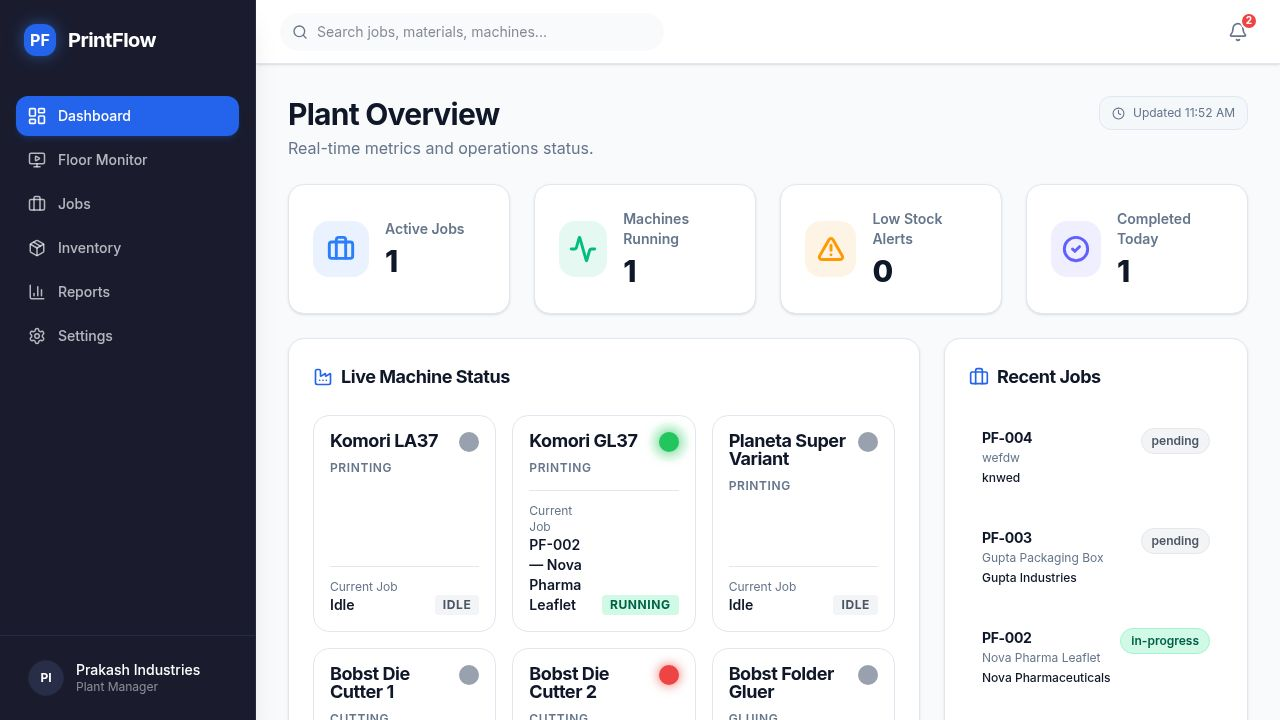
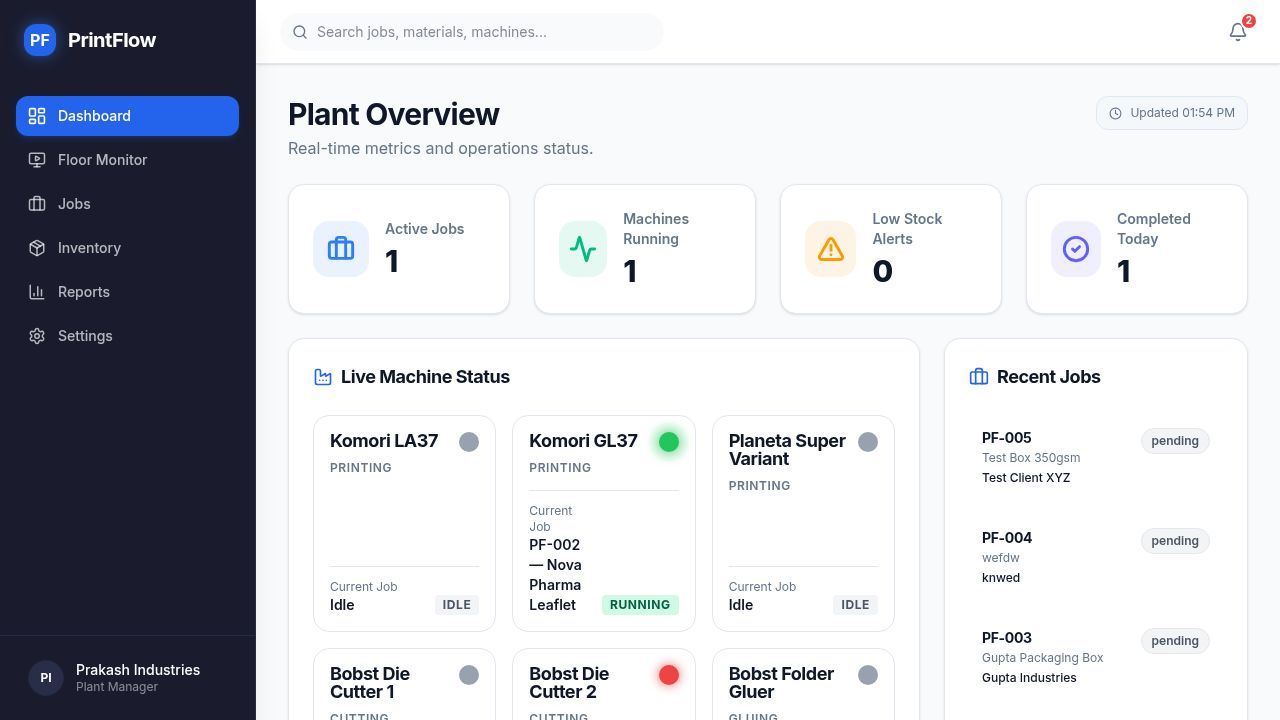
Task #8: ETA timer + pause info on floor monitor
## What was done

### DB Schema (lib/db/src/schema/jobs.ts)
- Added `estimatedMinutes` integer column (default 0) to `jobRoutingTable`

### Migration 6 (artifacts/api-server/src/lib/prod-migration.ts)
- ALTER TABLE job_routing ADD COLUMN IF NOT EXISTS estimated_minutes
- Backfills existing rows from machine type: printing=120, cutting=60,
  coating=90, gluing=90, pre-press=30

### Auto-seed (artifacts/api-server/src/lib/auto-seed.ts)
- All 9 seed routing steps now include `estimatedMinutes` per machine type

### Backend routes (artifacts/api-server/src/routes/jobs.ts)
- `buildJobWithDetails`: Now selects pausedAt, totalPausedSeconds, pauseReason,
  estimatedMinutes from job_routing; computes `etaSeconds` and `etaFormatted`
  (e.g. "2h", "45m") on each routing step before sending response
- POST /jobs route: sets `estimatedMinutes` from machine type when inserting
  new routing steps

### Frontend (artifacts/printflow/src/pages/floor-monitor.tsx)
- Added `usePauseDuration(pausedAt)` hook — counts up in seconds while paused
- Added `PauseBadge` component — shows pause reason label + live "Paused Xm Ys"
  counter; rendered inside active step controls when isPaused
- Updated MachineTimer "Paused at HH:MM" → "⏸ Since HH:MM"

## Verified working
- Migration 6 confirmed: "Migration 6: estimated_minutes column ensured on job_routing."
- API response for PF-002 Step 1: etaSeconds=7200, etaFormatted="2h",
  pauseReason="blanket-wash", pausedAt set
[…]

diff --git a/artifacts/printflow/src/pages/floor-monitor.tsx b/artifacts/printflow/src/pages/floor-monitor.tsx
@@ -80,6 +80,33 @@ function formatSeconds(seconds: number): string {
   return m > 0 ? `${h}h ${m}m` : `${h}h`;
 }
 
+// ─── Pause duration hook (counts up while paused) ─────────────────────────────
+function usePauseDuration(pausedAt: string | null): number {
+  const [duration, setDuration] = useState(0);
+  useEffect(() => {
+    if (!pausedAt) { setDuration(0); return; }
+    const update = () => setDuration(Math.floor((Date.now() - new Date(pausedAt).getTime()) / 1000));
+    update();
+    const id = setInterval(update, 1000);
+    return () => clearInterval(id);
+  }, [pausedAt]);
+  return duration;
+}
+
+// ─── Inline pause badge (reason + live duration) ──────────────────────────────
+function PauseBadge({ pauseReason, pausedAt }: { pauseReason: string | null; pausedAt: string | null }) {
+  const duration = usePauseDuration(pausedAt);
+  const label = PAUSE_REASONS.find(r => r.value === pauseReason)?.label ?? pauseReason ?? "Paused";
+  return (
+    <div className="mt-2 space-y-1">
+      <p className="text-xs font-semibold text-amber-700 dark:text-amber-400">{label}</p>
+      <p className="text-xs font-mono tabular-nums text-amber-600 dark:text-amber-500">
+        Paused {formatSeconds(duration)}
+      </p>
+    </div>
+  );
+}
+
 // ─── Main Component ───────────────────────────────────────────────────────────
 export default function FloorMonitor() {
   const { data: machines, isLoading: machinesLoading } = useMachines();
@@ -340,6 +367,12 @@ export default function FloorMonitor() {
                                   Step {activeInfo.step.stepNumber} — {isPaused ? "⏸ Paused" : "In Progress"}
                                 </span>
                                 <span className="text-xs font-semibold text-foreground">{activeInfo.job.jobCode}</span>
+                                {isPaused && (
+                                  <PauseBadge
+                                    pauseReason={(activeInfo.step as any).pauseReason ?? null}
+                                    pausedAt={(activeInfo.step as any).pausedAt ?? null}
+                                  />
+                                )}
                               </div>
                               {/* Pause / Resume button */}
                               {isPaused ? (
@@ -716,8 +749,8 @@ function MachineTimer({ step, job, isPaused }: { step: JobRouting; job: JobWithD
         </div>
       )}
       {isPaused && (step as any).pausedAt && (
-        <p className="text-[10px] text-amber-600 mt-1.5 font-medium">
-          Paused at {new Date((step as any).pausedAt).toLocaleTimeString('en-IN', { hour: '2-digit', minute: '2-digit' })}
+        <p className="text-[10px] text-amber-600 mt-1.5 font-medium tabular-nums">
+          ⏸ Since {new Date((step as any).pausedAt).toLocaleTimeString('en-IN', { hour: '2-digit', minute: '2-digit' })}
         </p>
       )}
     </div>

diff --git a/artifacts/api-server/src/lib/prod-migration.ts b/artifacts/api-server/src/lib/prod-migration.ts
@@ -11,6 +11,31 @@ import { logger } from "./logger";
 
 export async function runProdMigration(): Promise<void> {
 
+  // ─── MIGRATION 6: Add estimated_minutes to job_routing ──────────────
+  try {
+    await db.execute(sql`
+      ALTER TABLE job_routing
+        ADD COLUMN IF NOT EXISTS estimated_minutes INTEGER NOT NULL DEFAULT 0;
+    `);
+    // Backfill existing rows based on machine type
+    await db.execute(sql`
+      UPDATE job_routing jr
+      SET estimated_minutes = CASE
+        WHEN m.machine_type = 'printing'  THEN 120
+        WHEN m.machine_type = 'cutting'   THEN 60
+        WHEN m.machine_type = 'coating'   THEN 90
+        WHEN m.machine_type = 'gluing'    THEN 90
+        ELSE 30
+      END
+      FROM machines m
+      WHERE jr.machine_id = m.id
+        AND jr.estimated_minutes = 0;
+    `);
+    logger.info("Migration 6: estimated_minutes column ensured on job_routing.");
+  } catch (err) {
+    logger.error("Migration 6 estimated_minutes failed:", err);
+  }
+
   // ─── MIGRATION 5: Add pause columns to job_routing ───────────────────
   try {
     await db.execute(sql`

diff --git a/artifacts/api-server/src/routes/jobs.ts b/artifacts/api-server/src/routes/jobs.ts
@@ -93,7 +93,7 @@ async function buildJobWithDetails(jobId: number) {
   const [job] = await db.select().from(jobsTable).where(eq(jobsTable.id, jobId));
   if (!job) return null;
 
-  const routing = await db
+  const rawRouting = await db
     .select({
       id: jobRoutingTable.id,
       jobId: jobRoutingTable.jobId,
@@ -105,12 +105,25 @@ async function buildJobWithDetails(jobId: number) {
       status: jobRoutingTable.status,
       startedAt: jobRoutingTable.startedAt,
       completedAt: jobRoutingTable.completedAt,
+      pausedAt: jobRoutingTable.pausedAt,
+      totalPausedSeconds: jobRoutingTable.totalPausedSeconds,
+      pauseReason: jobRoutingTable.pauseReason,
+      estimatedMinutes: jobRoutingTable.estimatedMinutes,
       notes: jobRoutingTable.notes,
     })
     .from(jobRoutingTable)
     .leftJoin(machinesTable, eq(jobRoutingTable.machineId, machinesTable.id))
     .where(eq(jobRoutingTable.jobId, jobId))
     .orderBy(jobRoutingTable.stepNumber);
+
+  const routing = rawRouting.map(r => {
+    const etaSeconds = (r.estimatedMinutes ?? 0) * 60;
+    const mins = r.estimatedMinutes ?? 0;
+    const etaFormatted = mins === 0 ? null
+      : mins >= 60 ? `${Math.floor(mins / 60)}h${mins % 60 > 0 ? ` ${mins % 60}m` : ""}`
+      : `${mins}m`;
+    return { ...r, etaSeconds, etaFormatted };
+  });
 
   const materials = await db
     .select({
@@ -217,12 +230,18 @@ router.post("/jobs", async (req, res): Promise<void> => {
   for (let i = 0; i < routingMachineIds.length; i++) {
     const machineId = routingMachineIds[i];
     const [machine] = await db.select().from(machinesTable).where(eq(machinesTable.id, machineId));
+    const estimatedMinutes = machine?.machineType === "printing" ? 120
+      : machine?.machineType === "cutting" ? 60
+      : machine?.machineType === "coating" ? 90
+      : machine?.machineType === "gluing" ? 90
+      : 30;
     await db.insert(jobRoutingTable).values({
       jobId: job.id,
       stepNumber: i + 1,
       machineId,
       operatorName: machine?.operatorName ?? null,
       status: "pending",
+      estimatedMinutes,
     });
   }
 

diff --git a/artifacts/api-server/src/lib/auto-seed.ts b/artifacts/api-server/src/lib/auto-seed.ts
@@ -168,15 +168,15 @@ export async function autoSeedIfEmpty(): Promise<void> {
     }).returning();
 
     await db.insert(jobRoutingTable).values([
-      { jobId: job1.id, stepNumber: 1, machineId: wohlenberg.id, operatorName: "Operator 10", status: "completed", startedAt: "2026-03-20T08:00:00Z", completedAt: "2026-03-20T10:00:00Z" },
-      { jobId: job1.id, stepNumber: 2, machineId: komoriLA37.id, operatorName: "Operator 1", status: "completed", startedAt: "2026-03-20T10:30:00Z", completedAt: "2026-03-20T14:00:00Z" },
-      { jobId: job1.id, stepNumber: 3, machineId: bobstDC1.id, operatorName: "Operator 4", status: "completed", startedAt: "2026-03-20T16:30:00Z", completedAt: "2026-03-20T18:00:00Z" },
-      { jobId: job1.id, stepNumber: 4, machineId: bobstGluer.id, operatorName: "Operator 6", status: "completed", startedAt: "2026-03-21T08:00:00Z", completedAt: "2026-03-21T11:00:00Z" },
-      { jobId: job2.id, stepNumber: 1, machineId: komoriGL37.id, operatorName: "Operator 2", status: "in-progress", startedAt: "2026-03-25T08:00:00Z" },
-      { jobId: job3.id, stepNumber: 1, machineId: wohlenberg.id, operatorName: "Operator 10", status: "pending" },
-      { jobId: job3.id, stepNumber: 2, machineId: komoriLA37.id, operatorName: "Operator 1", status: "pending" },
-      { jobId: job3.id, stepNumber: 3, machineId: bobstDC1.id, operatorName: "Operator 4", status: "pending" },
-      { jobId: job3.id, stepNumber: 4, machineId: bobstGluer.id, operatorName: "Operator 6", status: "pending" },
+      { jobId: job1.id, stepNumber: 1, machineId: wohlenberg.id, operatorName: "Operator 10", status: "completed", startedAt: "2026-03-20T08:00:00Z", completedAt: "2026-03-20T10:00:00Z", estimatedMinutes: 30 },
+      { jobId: job1.id, stepNumber: 2, machineId: komoriLA37.id, operatorName: "Operator 1", status: "completed", startedAt: "2026-03-20T10:30:00Z", completedAt: "2026-03-20T14:00:00Z", estimatedMinutes: 120 },
+      { jobId: job1.id, stepNumber: 3, machineId: bobstDC1.id, operatorName: "Operator 4", status: "completed", startedAt: "2026-03-20T16:30:00Z", completedAt: "2026-03-20T18:00:00Z", estimatedMinutes: 60 },
+      { jobId: job1.id, stepNumber: 4, machineId: bobstGluer.id, operatorName: "Operator 6", status: "completed", startedAt: "2026-03-21T08:00:00Z", completedAt: "2026-03-21T11:00:00Z", estimatedMinutes: 90 },
+      { jobId: job2.id, stepNumber: 1, machineId: komoriGL37.id, operatorName: "Operator 2", status: "in-progress", startedAt: "2026-03-25T08:00:00Z", estimatedMinutes: 120 },
+      { jobId: job3.id, stepNumber: 1, machineId: wohlenberg.id, operatorName: "Operator 10", status: "pending", estimatedMinutes: 30 },
+      { jobId: job3.id, stepNumber: 2, machineId: komoriLA37.id, operatorName: "Operator 1", status: "pending", estimatedMinutes: 120 },
+      { jobId: job3.id, stepNumber: 3, machineId: bobstDC1.id, operatorName: "Operator 4", status: "pending", estimatedMinutes: 60 },
+      { jobId: job3.id, stepNumber: 4, machineId: bobstGluer.id, operatorName: "Operator 6", status: "pending", estimatedMinutes: 90 },
     ]);
 
     await db.insert(jobMaterialsTable).values([

diff --git a/lib/db/src/schema/jobs.ts b/lib/db/src/schema/jobs.ts
@@ -40,6 +40,7 @@ export const jobRoutingTable = pgTable("job_routing", {
   pausedAt: text("paused_at"),
   totalPausedSeconds: integer("total_paused_seconds").notNull().default(0),
   pauseReason: text("pause_reason"),
+  estimatedMinutes: integer("estimated_minutes").notNull().default(0),
   notes: text("notes"),
 });
 